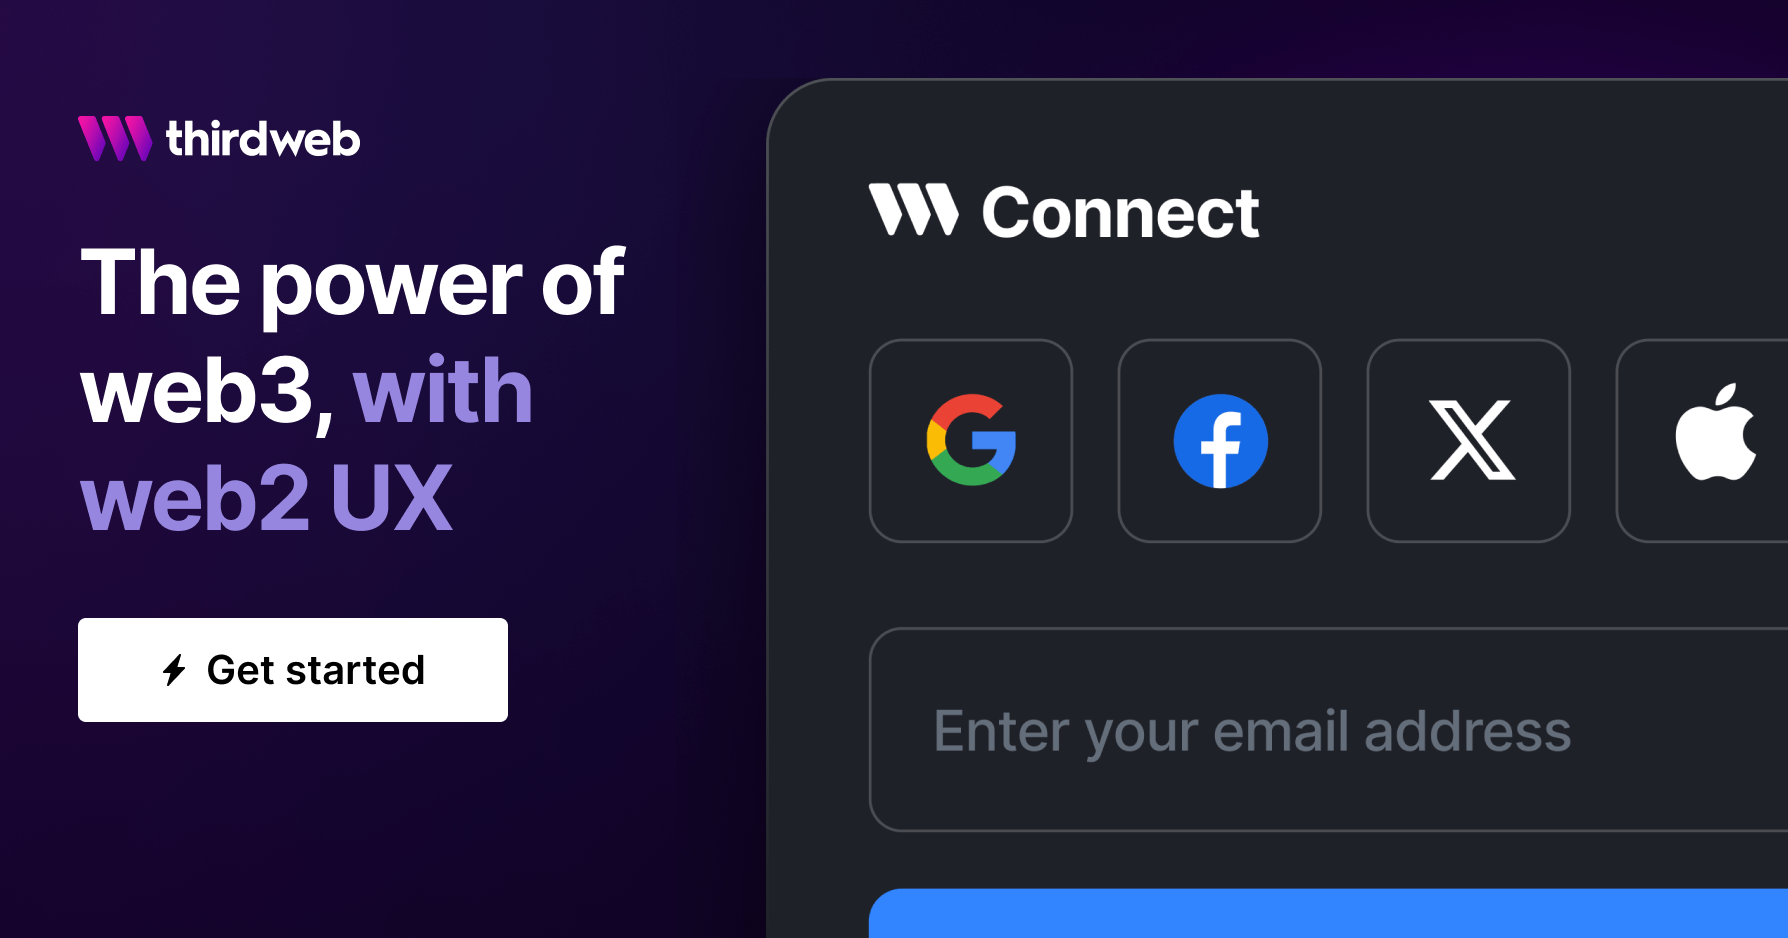
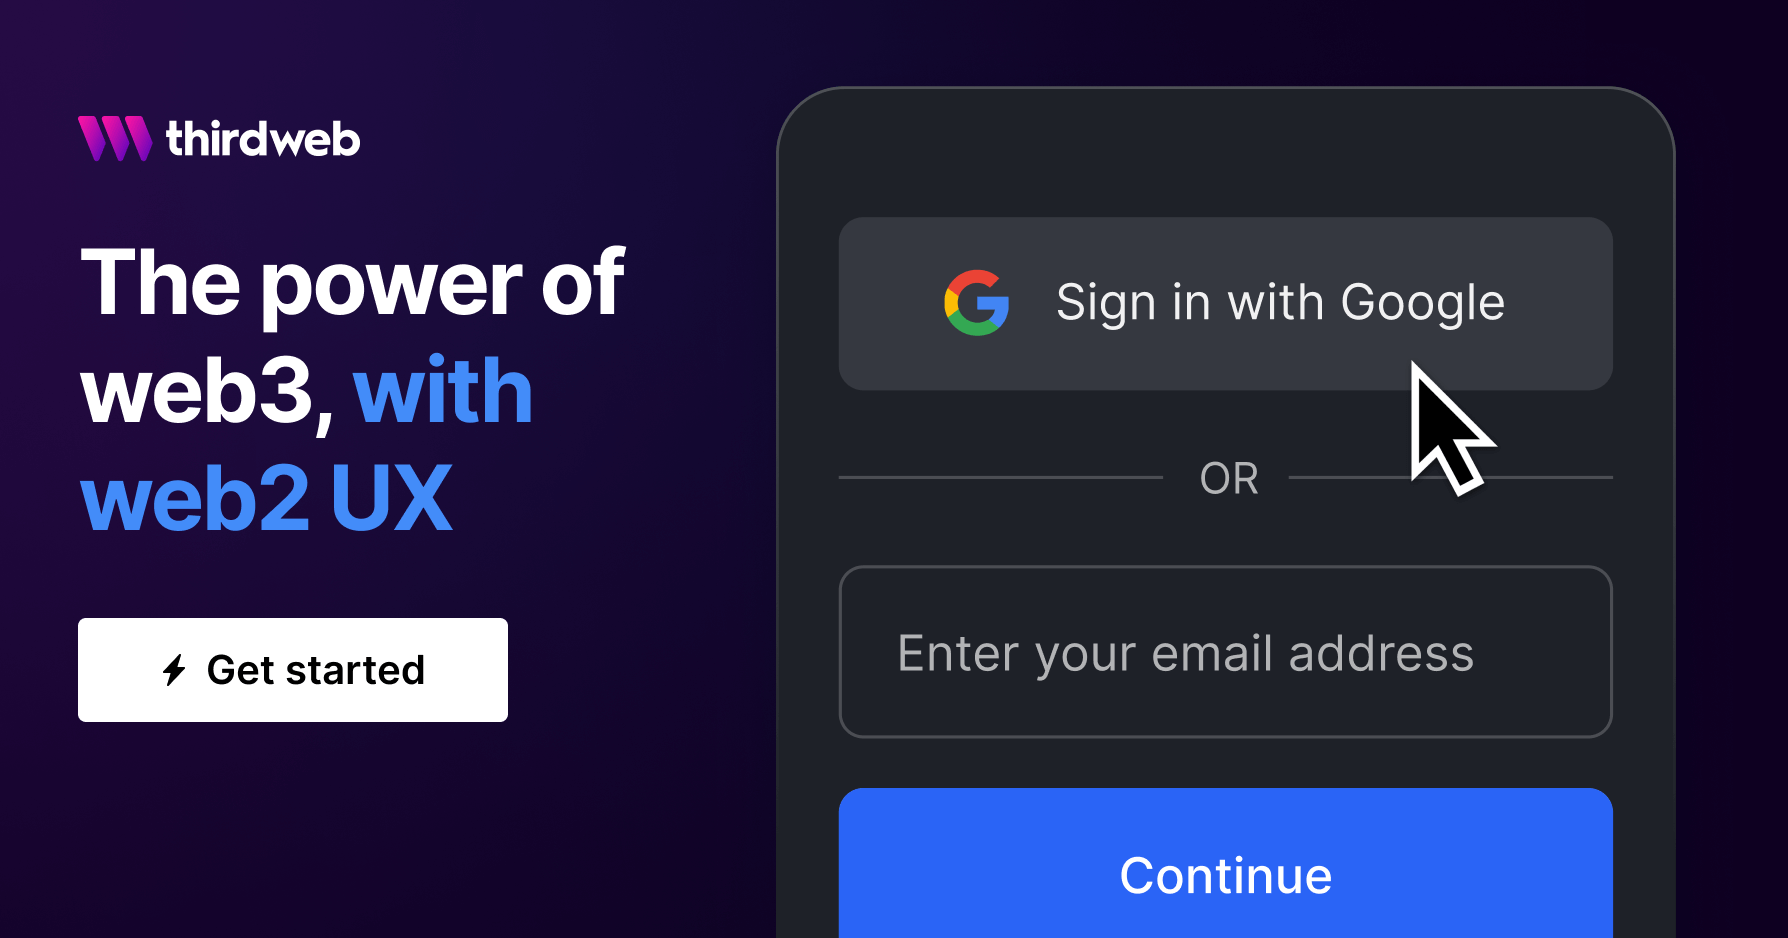
edit embeddd wallet landing page

diff --git a/pages/embedded-wallets.tsx b/pages/embedded-wallets.tsx
@@ -1,4 +1,7 @@
-import { Container, Flex, SimpleGrid } from "@chakra-ui/react";
+import { Box, Container, Flex, SimpleGrid } from "@chakra-ui/react";
+import { ChakraNextImage } from "components/Image";
+import { LandingCardWithImage } from "components/landing-pages/card-with-image";
+import { LandingDynamicSelector } from "components/landing-pages/dynamic-selector";
 import { LandingEndCTA } from "components/landing-pages/end-cta";
 import { LandingGridSection } from "components/landing-pages/grid-section";
 import { LandingGuidesShowcase } from "components/landing-pages/guide-showcase";
@@ -37,16 +40,16 @@ const EmbeddedWalletsLanding: ThirdwebNextPage = () => {
     <LandingLayout
       bgColor="#0F0F0F"
       seo={{
-        title: "Embedded Wallets for Every Web3 App",
+        title: "Embedded Wallets: Onboard Everyone to your App",
         description:
-          "Onboard any user with web2 login flows — using just an email, phone, or social account. Choose from non-custodial or custodial in-app wallets.",
+          "Onboard anyone with an email or Google account—with 1-click login flows, flexible auth options, & secure account recovery. Learn more.",
         openGraph: {
           images: [
             {
               url: `${getAbsoluteUrl()}/assets/og-image/embedded-wallets.png`,
               width: 1200,
               height: 630,
-              alt: "Embedded Wallets for Every Web3 App",
+              alt: "Embedded Wallets: Onboard Everyone to your App",
             },
           ],
         },
@@ -62,7 +65,7 @@ const EmbeddedWalletsLanding: ThirdwebNextPage = () => {
           miniTitle="Embedded Wallets"
           title="The power of web3, "
           titleWithGradient="with web2 UX"
-          subtitle="Give any user the keys to web3 with familiar web2 login flows. Choose from non-custodial or custodial solutions & enable users to sign in with an email, phone number, or social account."
+          subtitle="Onboard anyone with an email or Google account — with 1-click login flows, flexible auth options, and secure account recovery. Free up to 10k users."
           trackingCategory={TRACKING_CATEGORY}
           ctaLink="/dashboard/wallets/embedded"
           contactUsTitle="Book Demo"
@@ -71,114 +74,161 @@ const EmbeddedWalletsLanding: ThirdwebNextPage = () => {
           mobileImage={require("public/assets/product-pages/hero/mobile-hero-embedded-wallets.png")}
         />
 
-        <LandingGridSection>
-          <LandingIconSectionItem
-            icon={require("public/assets/product-pages-icons/wallets/icon-personalize.svg")}
-            title="Every way to login"
-            description="Choose from the largest selection of embedded wallet solutions & tailor it to your app — with support for email, smart, local, and server wallets."
-          />
-          <LandingIconSectionItem
-            icon={require("public/assets/product-pages-icons/wallets/icon-email-signin.svg")}
-            title="Login flows for every user"
-            description="Auth for the most common web2 login flows — enabling users to onboard with just an email, phone number, social account, or passkeys."
-          />
-          <LandingIconSectionItem
-            icon={require("public/assets/product-pages-icons/wallets/icon-secure.svg")}
-            title="Complete key management"
-            description="Determine how your users should manage their private keys, with non-custodial or custodial wallets. Build the most secure solution for your use case."
-          />
-        </LandingGridSection>
-        <Flex flexDir="column" gap={6}>
-          <LandingGridSection>
-            <Card p={8}>
-              <LandingIconSectionItem
-                icon={require("public/assets/product-pages-icons/wallets/icon-email-signin.svg")}
-                title="Email and social authentication"
-                description="Email log-in, social log-in, and bring your own auth."
-              />
-            </Card>
-            <Card p={8}>
-              <LandingIconSectionItem
-                icon={require("public/assets/product-pages-icons/wallets/icon-custom.svg")}
-                title="Customizable branding"
-                description="Fully customizable, choose your fonts, colors, and logos to make users' wallets indistinguishable from your app."
-              />
-            </Card>
-            <Card p={8}>
-              <LandingIconSectionItem
-                icon={require("public/assets/product-pages-icons/wallets/icon-verified.svg")}
-                title="Account recovery"
-                description="Users can access their accounts on authenticated devices."
-              />
-            </Card>
-          </LandingGridSection>
-          <SimpleGrid columns={{ base: 1, md: 6 }} gap={6}>
-            <Card p={8} gridColumnStart={2} gridColumnEnd={4}>
-              <LandingIconSectionItem
-                icon={require("public/assets/product-pages-icons/wallets/icon-save.svg")}
-                title="Gasless transactions"
-                description="Users can interact with your app without paying for gas fees."
-              />
-            </Card>
-            <Card p={8} gridColumnStart={4} gridColumnEnd={6}>
-              <LandingIconSectionItem
-                icon={require("public/assets/product-pages-icons/wallets/icon-private.svg")}
-                title="Non-custodial"
-                description="Using Multi-Party Computation (MPC), private key shard across (1) device, (2) emailed recovery password, and (3) login authentication."
-              />
-            </Card>
-          </SimpleGrid>
-        </Flex>
+        <LandingDynamicSelector
+          gradient="linear(to-r, #4490FF, #4490FF)"
+          title="Flexible flows so you can onboard your way"
+          blackToWhiteTitle=""
+          TRACKING_CATEGORY={TRACKING_CATEGORY}
+          items={[
+            {
+              title: "Seamless onboarding with managed auth",
+              description:
+                "Let users access your app instantly with email, google, and social logins.",
+              Component: (
+                <ChakraNextImage
+                  src={require("/public/assets/product-pages/embedded-wallets/seamless.png")}
+                  alt=""
+                  borderRadius="lg"
+                />
+              ),
+            },
+            {
+              title:
+                "Let users access your app instantly with email, google, and social logins.",
+              description:
+                "Spin up embedded wallets with the authentication system from your app or game.",
+              Component: (
+                <ChakraNextImage
+                  src={require("/public/assets/product-pages/embedded-wallets/auth.png")}
+                  alt=""
+                  borderRadius="lg"
+                />
+              ),
+            },
+            {
+              title: "Cross-platform support",
+              description:
+                "Let users access the same account across different devices with one-click. Support for web, mobile and unity.",
+              Component: (
+                <ChakraNextImage
+                  src={require("/public/assets/product-pages/embedded-wallets/cross-platform.png")}
+                  alt=""
+                  borderRadius="lg"
+                />
+              ),
+            },
+          ]}
+        />
 
-        <LandingGridSection
-          desktopColumns={4}
-          title={
-            <LandingSectionHeading
-              title="What You Can Build"
-              blackToWhiteTitle=""
-            />
-          }
-        >
-          <Card p={8}>
-            <LandingIconSectionItem
-              icon={require("public/assets/product-pages-icons/wallets/icon-email-signin.svg")}
-              title="Web2 login flows"
-              description="Enable your users to sign in with just an email, social login, or phone number — even if they've never created a wallet or purchased crypto before."
-            />
-          </Card>
-          <Card p={8}>
-            <LandingIconSectionItem
-              icon={require("public/assets/product-pages-icons/wallets/icon-efficient.svg")}
-              title="Invisible wallet experiences"
-              description="Enable gasless and signless transactions with in-app smart wallets (powered by ERC-4337) and remove any friction from your web3 app."
-            />
-          </Card>
-          <Card p={8}>
-            <LandingIconSectionItem
-              icon={require("public/assets/product-pages-icons/wallets/icon-guest.svg")}
-              title="Continue as guest"
-              description="Instantly onboard any user onto your app without a login process. Spin up wallets tied to your users' devices, which they can export at a later date or access using the same device."
-            />
-          </Card>
-          <Card p={8}>
-            <LandingIconSectionItem
-              icon={require("public/assets/product-pages-icons/wallets/icon-smart-wallet.svg")}
-              title="Build your own wallet experiences"
-              description="Low-level tools with everything you need to build your own fully-featured wallets, from generating wallets on the backend to managing users' wallets including importing & exporting keys, saving keys to secure storage, and private key recovery."
-            />
-          </Card>
+        <LandingGridSection desktopColumns={4}>
+          <LandingCardWithImage
+            title="Onboard anyone, instantly"
+            description="One-click login with a Google account, two-step verification with email, and custom auth integration for your existing users."
+            image={require("public/assets/landingpage/desktop/onboard.png")}
+            mobileImage={require("public/assets/landingpage/mobile/onboard.png")}
+            TRACKING_CATEGORY={TRACKING_CATEGORY}
+            href="https://portal.thirdweb.com/wallet"
+            direction="horizontal"
+          />
+
+          <LandingCardWithImage
+            title="Cross-platform support"
+            description="Users can log into their accounts (and access their wallets) from any device, in one click. Support for web, mobile, & Unity."
+            image={require("public/assets/landingpage/desktop/cross-platform.png")}
+            mobileImage={require("public/assets/landingpage/mobile/cross-platform.png")}
+            TRACKING_CATEGORY={TRACKING_CATEGORY}
+            href="https://portal.thirdweb.com/wallet"
+          />
+
+          <LandingCardWithImage
+            title="Enterprise-grade wallet security"
+            description="Self-custodial wallets with flexible & secure account recovery — powered by MPC."
+            image={require("public/assets/landingpage/desktop/enterprise-security.png")}
+            mobileImage={require("public/assets/landingpage/mobile/enterprise-security.png")}
+            TRACKING_CATEGORY={TRACKING_CATEGORY}
+            href="https://portal.thirdweb.com/wallet"
+            colSpan={1}
+          />
+
+          <LandingCardWithImage
+            title="User experiences that feel like magic"
+            description="Seamless integration with Account Abstraction (ERC-4337) for gas-free, signless onboarding & user experiences."
+            image={require("public/assets/landingpage/desktop/magic.png")}
+            mobileImage={require("public/assets/landingpage/mobile/magic.png")}
+            TRACKING_CATEGORY={TRACKING_CATEGORY}
+            href="https://portal.thirdweb.com/wallet"
+          />
+
+          <LandingCardWithImage
+            title="Guest mode"
+            description="Allow anyone to use your app in seconds — with a wallet that's generated automatically when they press Continue as guest."
+            image={require("public/assets/landingpage/desktop/guest.png")}
+            mobileImage={require("public/assets/landingpage/mobile/guest.png")}
+            TRACKING_CATEGORY={TRACKING_CATEGORY}
+            href="https://portal.thirdweb.com/wallet"
+            colSpan={1}
+          />
+
+          <LandingCardWithImage
+            title="Bring your own auth"
+            description="Integrate your authentication system and spin up embedded wallets for your users — new and existing."
+            image={require("public/assets/landingpage/desktop/auth.png")}
+            mobileImage={require("public/assets/landingpage/mobile/auth.png")}
+            TRACKING_CATEGORY={TRACKING_CATEGORY}
+            href="https://portal.thirdweb.com/wallet"
+          />
+
+          <LandingCardWithImage
+            title="Everything a wallet needs"
+            description="Give users the ability to send, receive, & view assets. Transaction history, ENS support, & more out of the box."
+            image={require("public/assets/landingpage/desktop/wallet.png")}
+            mobileImage={require("public/assets/landingpage/mobile/wallet.png")}
+            TRACKING_CATEGORY={TRACKING_CATEGORY}
+            href="https://portal.thirdweb.com/wallet"
+            direction="horizontal"
+          />
+
+          <LandingCardWithImage
+            title="Powerful hooks"
+            description="Flexible hooks, functions, and low-level tools for fully custom Embedded Wallet experiences."
+            image={require("public/assets/landingpage/desktop/powerful.png")}
+            mobileImage={require("public/assets/landingpage/mobile/powerful.png")}
+            TRACKING_CATEGORY={TRACKING_CATEGORY}
+            href="https://portal.thirdweb.com/wallet"
+            colSpan={1}
+          />
+
+          <LandingCardWithImage
+            title="Sign-in with Ethereum"
+            description="Verify a user's onchain identity with web3-first authentication, using the SIWE (Sign-in with Ethereum) standard."
+            image={require("public/assets/landingpage/desktop/siwe.png")}
+            mobileImage={require("public/assets/landingpage/mobile/siwe.png")}
+            TRACKING_CATEGORY={TRACKING_CATEGORY}
+            href="https://portal.thirdweb.com/wallet"
+            direction="horizontal"
+          />
+
+          <LandingCardWithImage
+            title="Wallet analytics"
+            description="Comprehensive wallet insights to understand how users are interacting with your app."
+            image={require("public/assets/landingpage/desktop/analytics.png")}
+            mobileImage={require("public/assets/landingpage/mobile/analytics.png")}
+            TRACKING_CATEGORY={TRACKING_CATEGORY}
+            href="https://portal.thirdweb.com/wallet"
+            colSpan={1}
+          />
         </LandingGridSection>
 
         <LandingGuidesShowcase
-          title="Learn to build with in-app embedded wallets"
+          title="Get started with Embedded Wallets"
           category={TRACKING_CATEGORY}
-          description="Tailor your app's onboarding & experience to your users"
+          description="See our quick-start guides to implement embedded wallets & onboard anyone"
           guides={GUIDES}
         />
 
         <LandingEndCTA
-          title="Start building"
-          titleWithGradient="today."
+          title="Integrate in"
+          titleWithGradient="a few lines of code."
           trackingCategory={TRACKING_CATEGORY}
           ctaLink="/dashboard/wallets/embedded"
           gradient="linear(to-r, #3385FF, #7BB0FF)"
